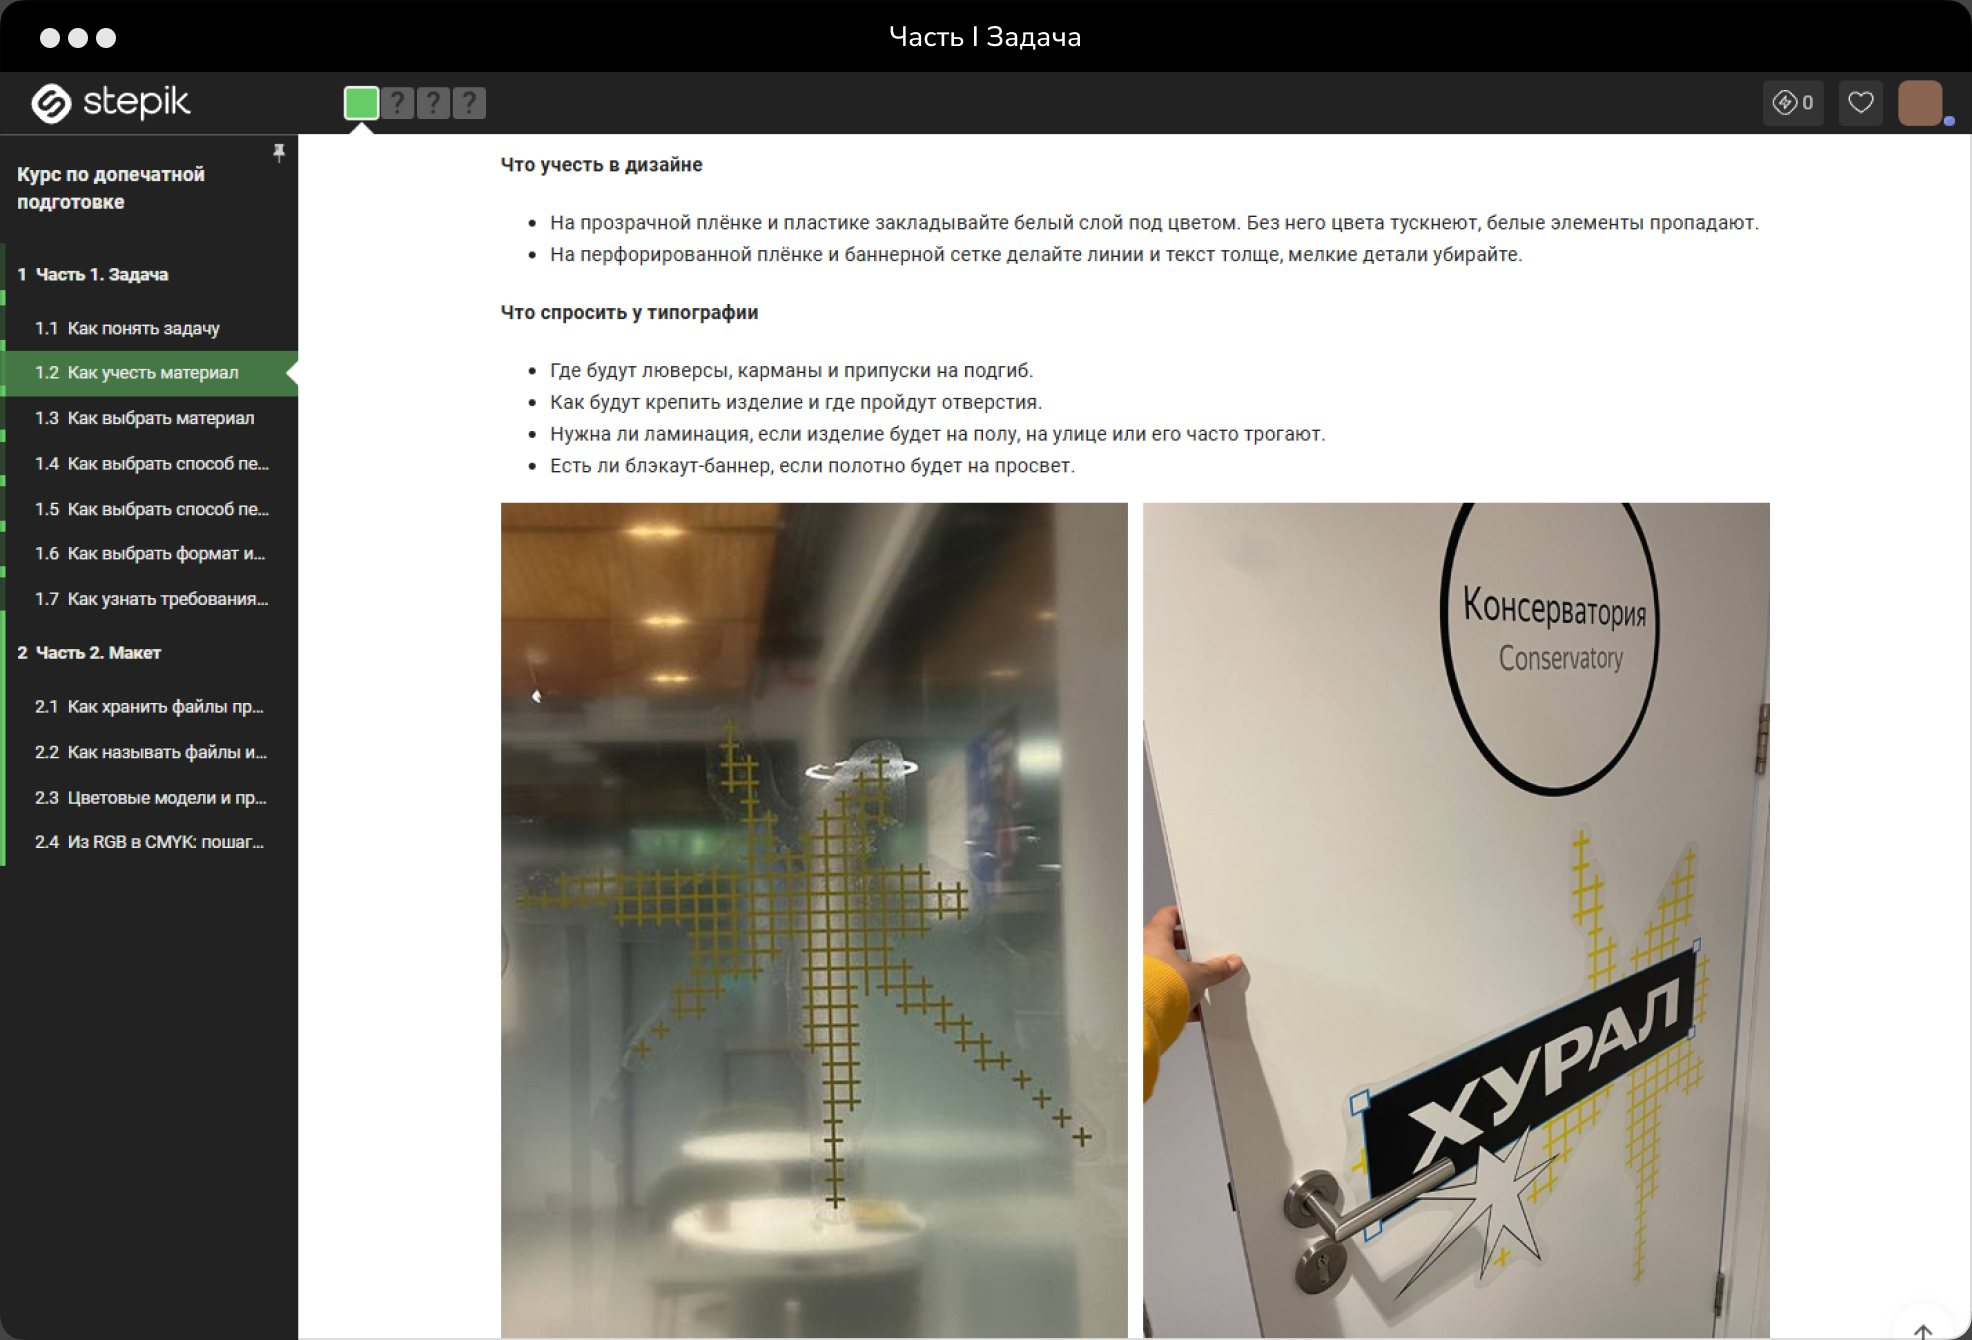
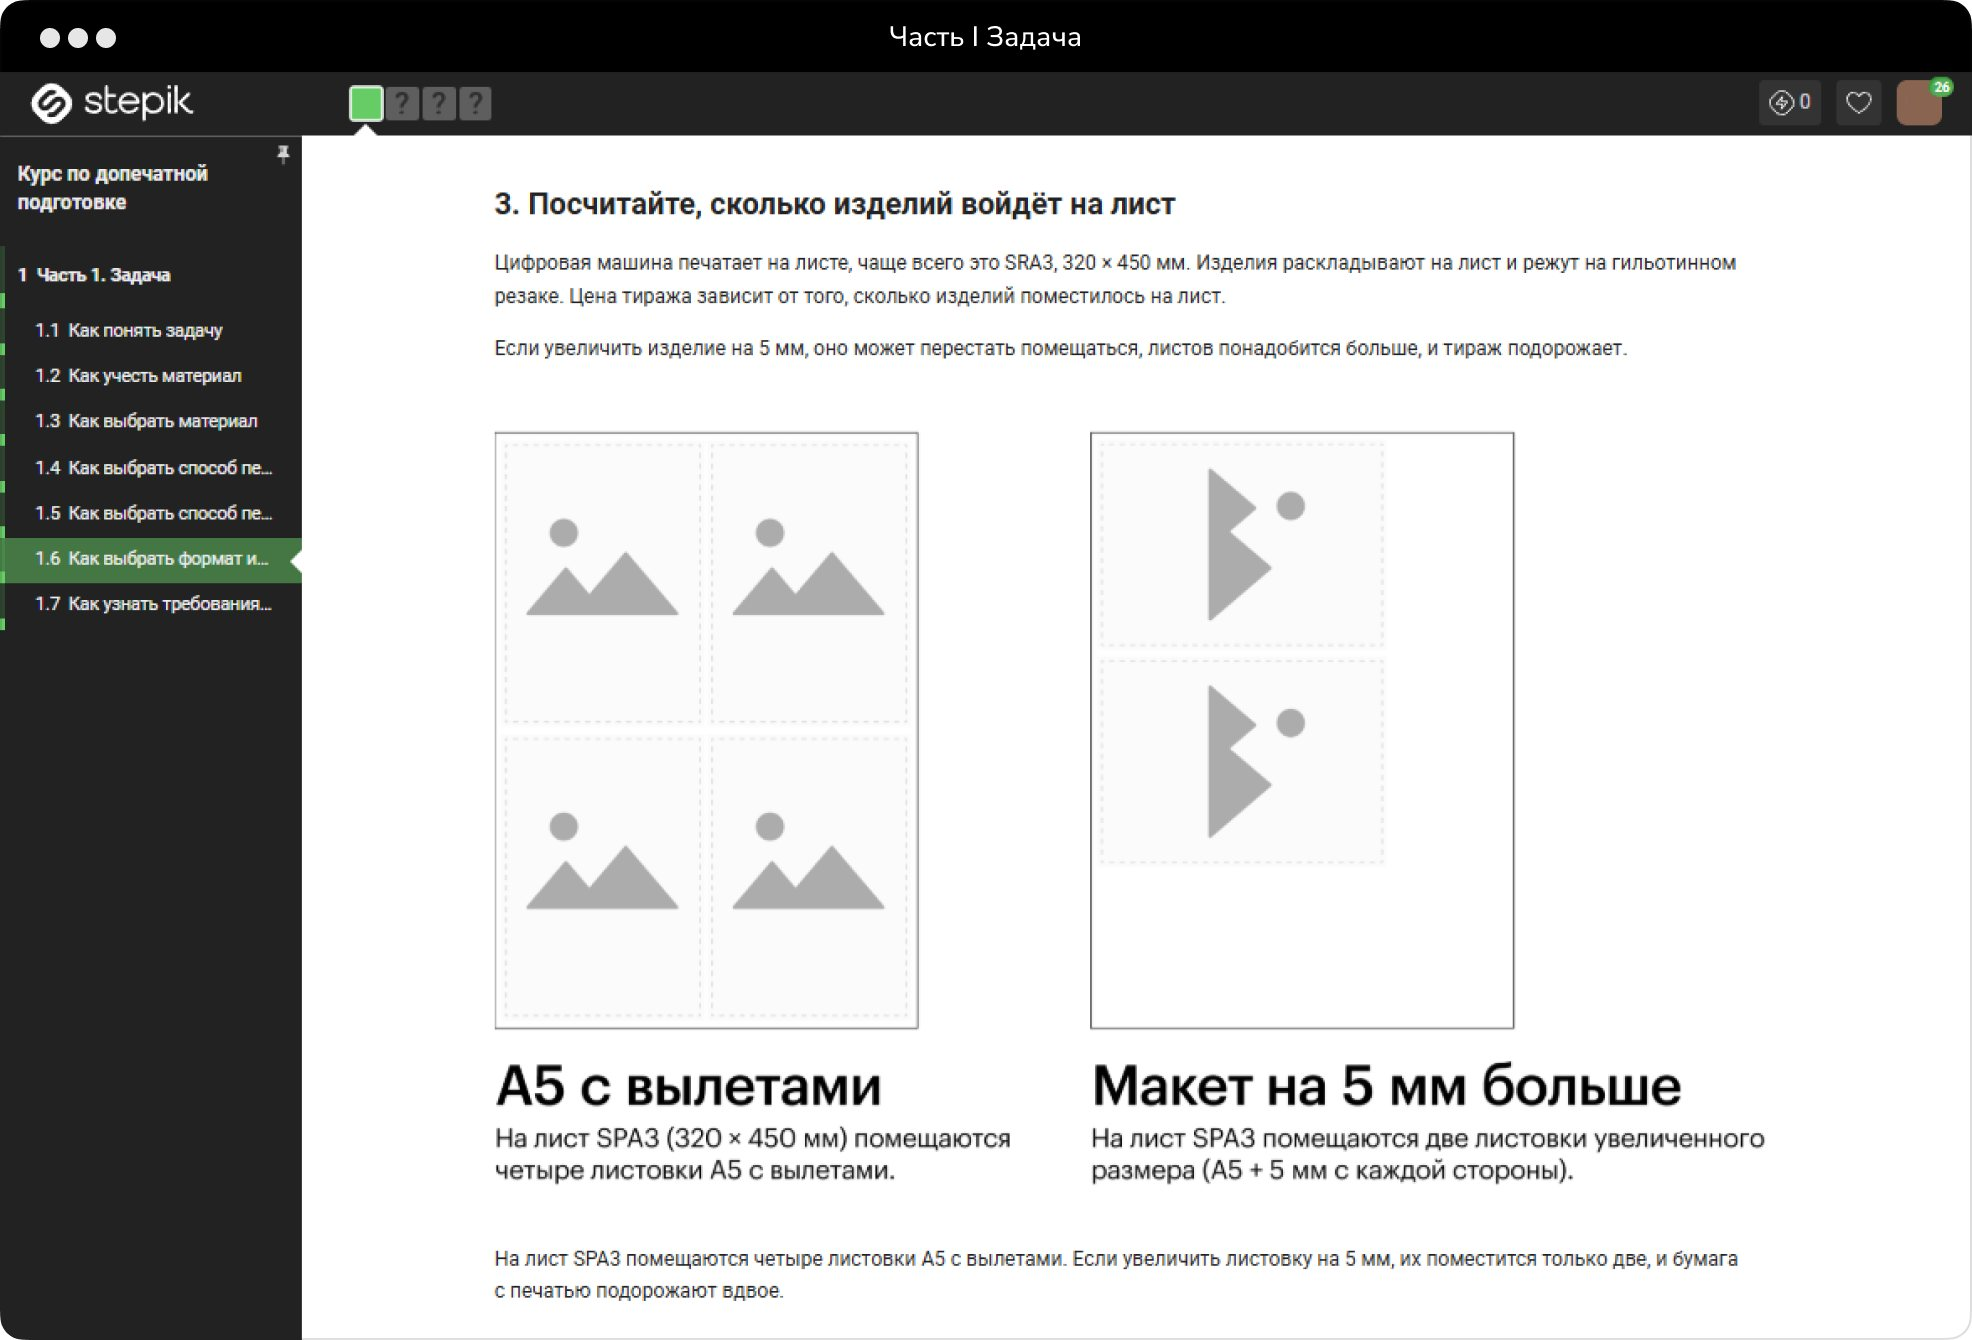
Новые четыре скриншота в «Что внутри»
Автор переснимала секцию «для скролла» целиком. Выгрузка узла приходит
в однократном размере и масштаб в настройках игнорирует, так что картинки
взяты из rawImages — там ровно 1972×1340; сверил с рамкой по пикселям.

diff --git a/site/index.html b/site/index.html
@@ -246,13 +246,14 @@
       <section class="inside" aria-label="Что внутри курса">
         <h2 class="h2">Что&nbsp;внутри</h2>
         <p class="inside-lead">Курс на&nbsp;Степике: уроки с&nbsp;матчастью, практическими примерами, полезными инструментами и&nbsp;заданиями. <a class="u" data-utm="inside" href="https://stepik.org/a/299554" target="_blank" rel="noopener">Урок «Как понять задачу»</a> открыт для&nbsp;всех.</p>
-        <!-- Три скриншота урока лежат стопкой: по скроллу видно тот, чей
-             интервал сейчас идёт. Первый грузится сразу, остальные два лениво —
+        <!-- Четыре скриншота урока лежат стопкой: по скроллу видно тот, чей
+             интервал сейчас идёт. Первый грузится сразу, остальные три лениво —
              браузер возьмёт их, когда блок подъедет к экрану. -->
         <div class="inside-shots">
           <img class="inside-shot is-on" src="assets/inside-screen-1.jpg" alt="Урок курса на Степике: теория, примеры и задания" width="986" height="670">
           <img class="inside-shot" src="assets/inside-screen-2.jpg" alt="" width="986" height="670" loading="lazy" decoding="async">
           <img class="inside-shot" src="assets/inside-screen-3.jpg" alt="" width="986" height="670" loading="lazy" decoding="async">
+          <img class="inside-shot" src="assets/inside-screen-4.jpg" alt="" width="986" height="670" loading="lazy" decoding="async">
         </div>
         <img class="inside-doodle" src="assets/stepik-badge.png" alt="Степик">
 
@@ -1097,7 +1098,7 @@
   /* ============================================================
      СКРИНШОТЫ В «ЧТО ВНУТРИ»: меняются по скроллу
 
-     Три картинки лежат стопкой, видно ту, чей интервал сейчас идёт.
+     Четыре картинки лежат стопкой, видно ту, чей интервал сейчас идёт.
      Интервалы равные и отмеряются по проходу через экран самой стопки:
      0 — её верх только показался снизу, 1 — её низ только ушёл за верх,
      то есть то же окно, что `cover 0% … 100%`, но у картинки, а не у секции.

diff --git a/CLAUDE.md b/CLAUDE.md
@@ -1399,34 +1399,36 @@ Android с экономией трафика и Firefox, если автозап
 
 ## Значок Степика в «Что внутри»
 
-**Скриншотов три, и они меняются по скроллу.** `assets/inside-screen-1…3.jpg`,
+**Скриншотов четыре, и они меняются по скроллу.** `assets/inside-screen-1…4.jpg`,
 каждый 986×670, отдаются 2×; лежат стопкой в `.inside-shots`, видно тот, у кого
-класс `.is-on`. Берутся они из отдельной секции макета — `2609:18346` («для скролла»),
-порядок там по чтению: слева направо, сверху вниз. Первый кадр совпадает с тем
-скриншотом, что стоит в самой секции «Что внутри» (`2087:2026`) — сверено по пикселям,
-так что в покое страница выглядит ровно как макет.
+класс `.is-on`. Берутся они из отдельной секции макета — `2609:18346` («для скролла»).
+**Набор автор меняет целиком**: сперва там было четыре кадра, потом она попросила
+убрать третий, потом прислала четыре новых. Поэтому выгружай всю секцию заново,
+а не отдельные узлы по старым id.
 
-**В той секции макета кадров четыре, а у нас три.** Третий по чтению — урок
-«Запишите понимание задачи» со схемой холодильников — автор попросила убрать,
-так что у нас лежат первый, второй и четвёртый. Файлы перенумерованы подряд,
-без дырки: бывший четвёртый стал `inside-screen-3.jpg`. Если автор вернёт его
-или добавит новый — достаточно положить файл и дописать `<img>`: интервалы
-скрипт берёт из числа картинок, в коде ничего менять не надо.
+**Порядок задан именами узлов, а не раскладкой.** Прямоугольники в секции так
+и называются — «1», «2», «3», «4», сверху вниз. Сейчас это `3140:61113`,
+`3140:61110`, `3140:61107` и `3140:61104`, но id меняются с каждым набором —
+ориентируйся на имена.
+
+**Число картинок нигде не зашито.** Интервалы скрипт берёт из длины стопки,
+так что добавить или убрать кадр — это положить файл и поправить `<img>`,
+в коде менять нечего.
 
 **Интервалы равные и считаются по проходу через экран самой стопки картинок**:
 0 — её верх только показался снизу, 1 — её низ только ушёл за верх
 (`p = (vh − top) / (vh + height)` у `.inside-shots`, то же окно, что `cover 0% … 100%`
-у параллакса). Кадр — это `floor(p × число картинок)`: при трёх смена
-на 33 и 67% пути, при четырёх была бы на 25, 50 и 75.
+у параллакса). Кадр — это `floor(p × число картинок)`: при четырёх смена
+на 25, 50 и 75% пути, при трёх была на 33 и 67.
 
 **Сперва мерили по всей секции, и первый кадр проигрывал остальным.** Автор просила
 считать «с момента появления блока на экране», так и было сделано, — но четверть
 этого пути уходит на заголовок с подводкой, когда картинки на экране ещё нет:
 на 1440 первый кадр был виден 12,5% прохода против 25% у остальных. Автор попросила
 добавить ему доли, и опорой стала сама стопка — тогда все кадры получают поровну
-живого времени, и поправка сама подстраивается под высоту окна. Замер при трёх
-кадрах (смена в долях прохода секции): 41,9 / 71,2 на 1440 и 45,4 / 73,0 на 375.
-По стопке и там, и там ровно 33 / 67.
+живого времени, и поправка сама подстраивается под высоту окна. Замер при четырёх
+кадрах (смена в долях прохода секции): 34,7 / 56,5 / 78,5 на 1440
+и 38,8 / 59,2 / 79,7 на 375. По стопке и там, и там ровно 25 / 50 / 75.
 
 **Опорный элемент тут `.inside-shots`, а не `.inside`** — перепутаешь, и интервалы
 молча вернутся к прежним: код тот же, разница в одном селекторе.
@@ -1448,8 +1450,21 @@ Android с экономией трафика и Firefox, если автозап
 
 **У всех в макете скругление 12 и волосяная рамка `rgba(34,34,34,.15)`;
 рамка внутренняя**, поэтому в CSS `box-sizing: border-box` — иначе картинка станет 988
-и уедет от правого края колонки. Углы в выгрузке сведены с белым, и это нормально:
-полотно под ними белое, а скругление всё равно рисует CSS.
+и уедет от правого края колонки. Скругление и рамку рисует CSS, так что из макета
+нужна только сама картинка.
+
+**Выгрузка узла приходит в однократном размере, и масштаб в настройках
+не работает.** `download_assets` на такой прямоугольник отдаёт 986×670 и при
+`SCALE: 2`, и при `WIDTH: 1972` — байт в байт тот же файл. Двойной размер лежит
+в `rawImages`: это та картинка, которую автор положила в заливку, ровно 1972×1340.
+Оттуда и берём, дальше `tojpg.ps1` на 1972 с качеством 85 — выходит 200–300 КБ
+на кадр. Рядом в `rawImages` приезжает ещё превью 493×335, его не путать.
+
+**Проверка, что из заливки взялась та самая картинка:** уменьшить её вдвое
+усреднением 2×2 и сравнить с однократной выгрузкой рамки, пропустив по 4px
+с краёв (там скругление и обводка). У текущих четырёх средняя разница
+0,03–0,14 при максимуме 1 — то есть кадрирования нет, заливка ложится
+в рамку один в один.
 
 
 `assets/stepik-badge.png` — повёрнутый скруглённый квадрат с логотипом, фон вокруг
